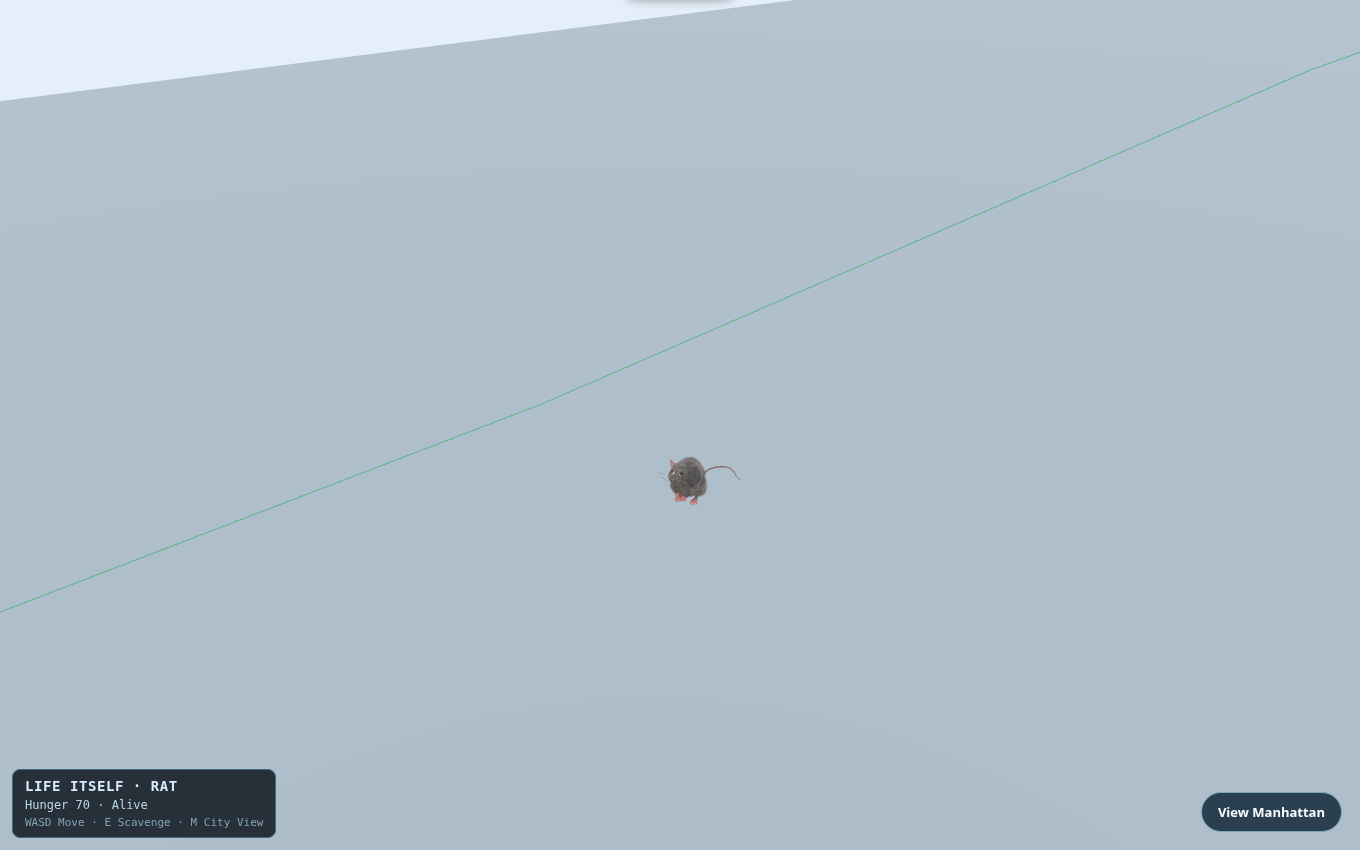
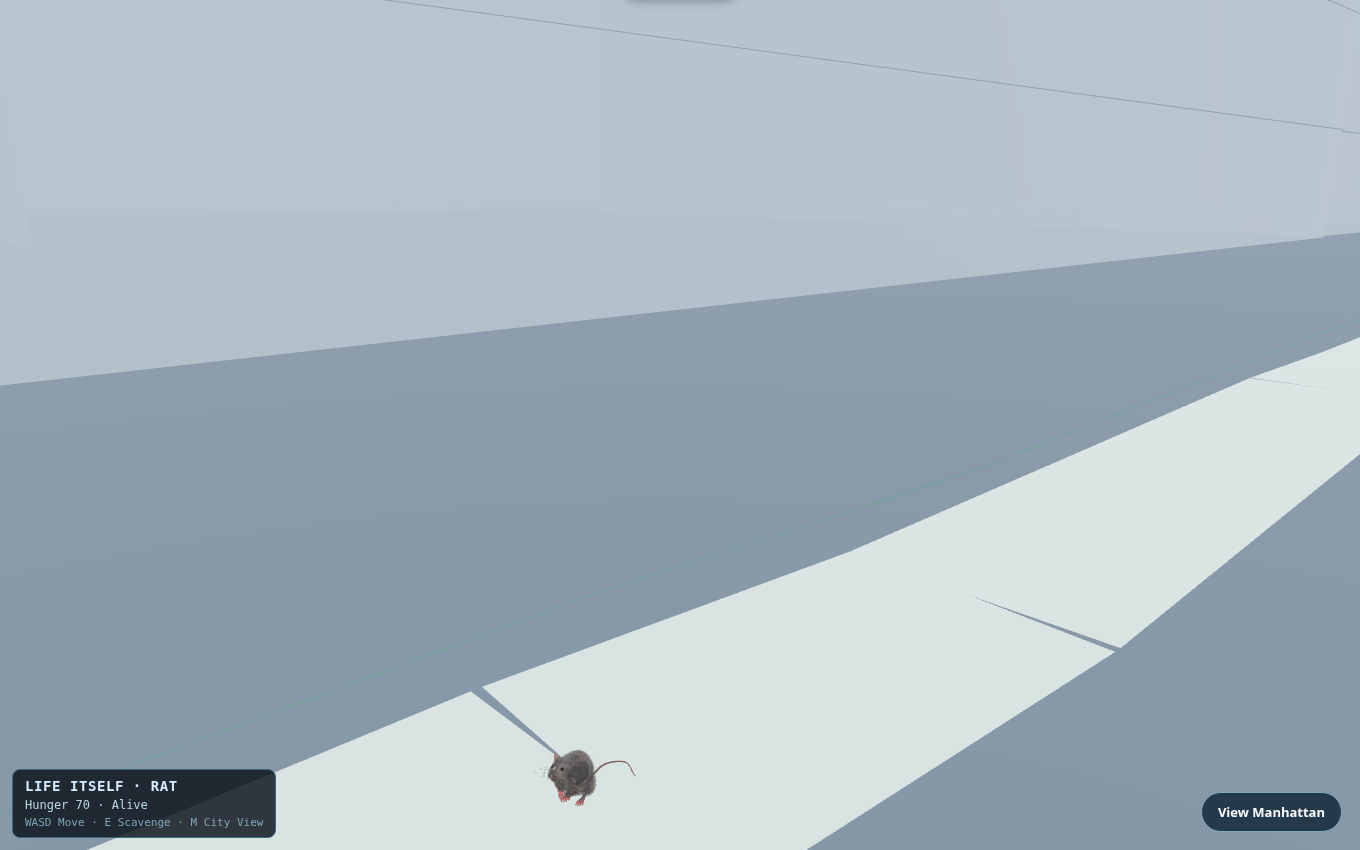
docs(s3): refine street-facing camera and source-derived paving visuals

diff --git a/docs/s3-003-iwsdk-recovery-handoff.md b/docs/s3-003-iwsdk-recovery-handoff.md
@@ -16,13 +16,17 @@ The patch `docs/patches/s3-003-iwsdk-visual-recovery.patch.gz` contains
 **only edits to four existing files from Muse's uncommitted app snapshot**:
 - `app/src/main.ts`: IWSDK player origin rather than tracked child camera,
   synchronous spawn before first RAF tick, camera tracking of visual rat,
-  brighter daylight and fog, lazy map-mode toggle, no duplicate XR button.
+  balanced daylight/fog, a street-facing third-person camera, lazy map-mode
+  toggle, no duplicate XR button.
   It does NOT author movement or alter LIM state. Includes dev-only
   read-only `__limVisualProof` for screenshot assertions.
 - `app/src/environment/manhattan.ts`: don't compile 45k-building island
   wireframe until user requests City View; correct building extrusion
   ENU sign; replace 4.4m amber debug diamond with a grounded, 1m
-  green dumpster *visual* at the existing simulation-owned position.
+  green dumpster *visual* at the existing simulation-owned position. New source-derived sidewalk ribbons
+  and procedural facade floor bands are purely presentation geometry;
+  they do not authorize collision, imply observed windows, or add gameplay
+  objects.
 - `app/src/ui/game-hud.ts`: player HUD omits journal engineering fields
   unless the URL includes `?debug`. Still displays actual hunger.
 - `app/public/hud.css`: brighten page, style one camera-mode control.
@@ -50,7 +54,8 @@ independent. The rat is the original CC BY 4.0 Nestaeric rig.
 ## NOT verified; production gates still open
 
 - The current street image shows the textured rat and cleaner HUD, but
-  the nearby built environment still looks sparse and gray. It does
+  the nearby built environment still looks sparse and gray, even after
+  the pavement ribbon and facade-band pass. It does
   **not** pass final "recognizable Manhattan street" art acceptance.
 - City View is implemented using preserved full source geometry; an
   earlier eager city-mode screenshot was visually inspected, but the
